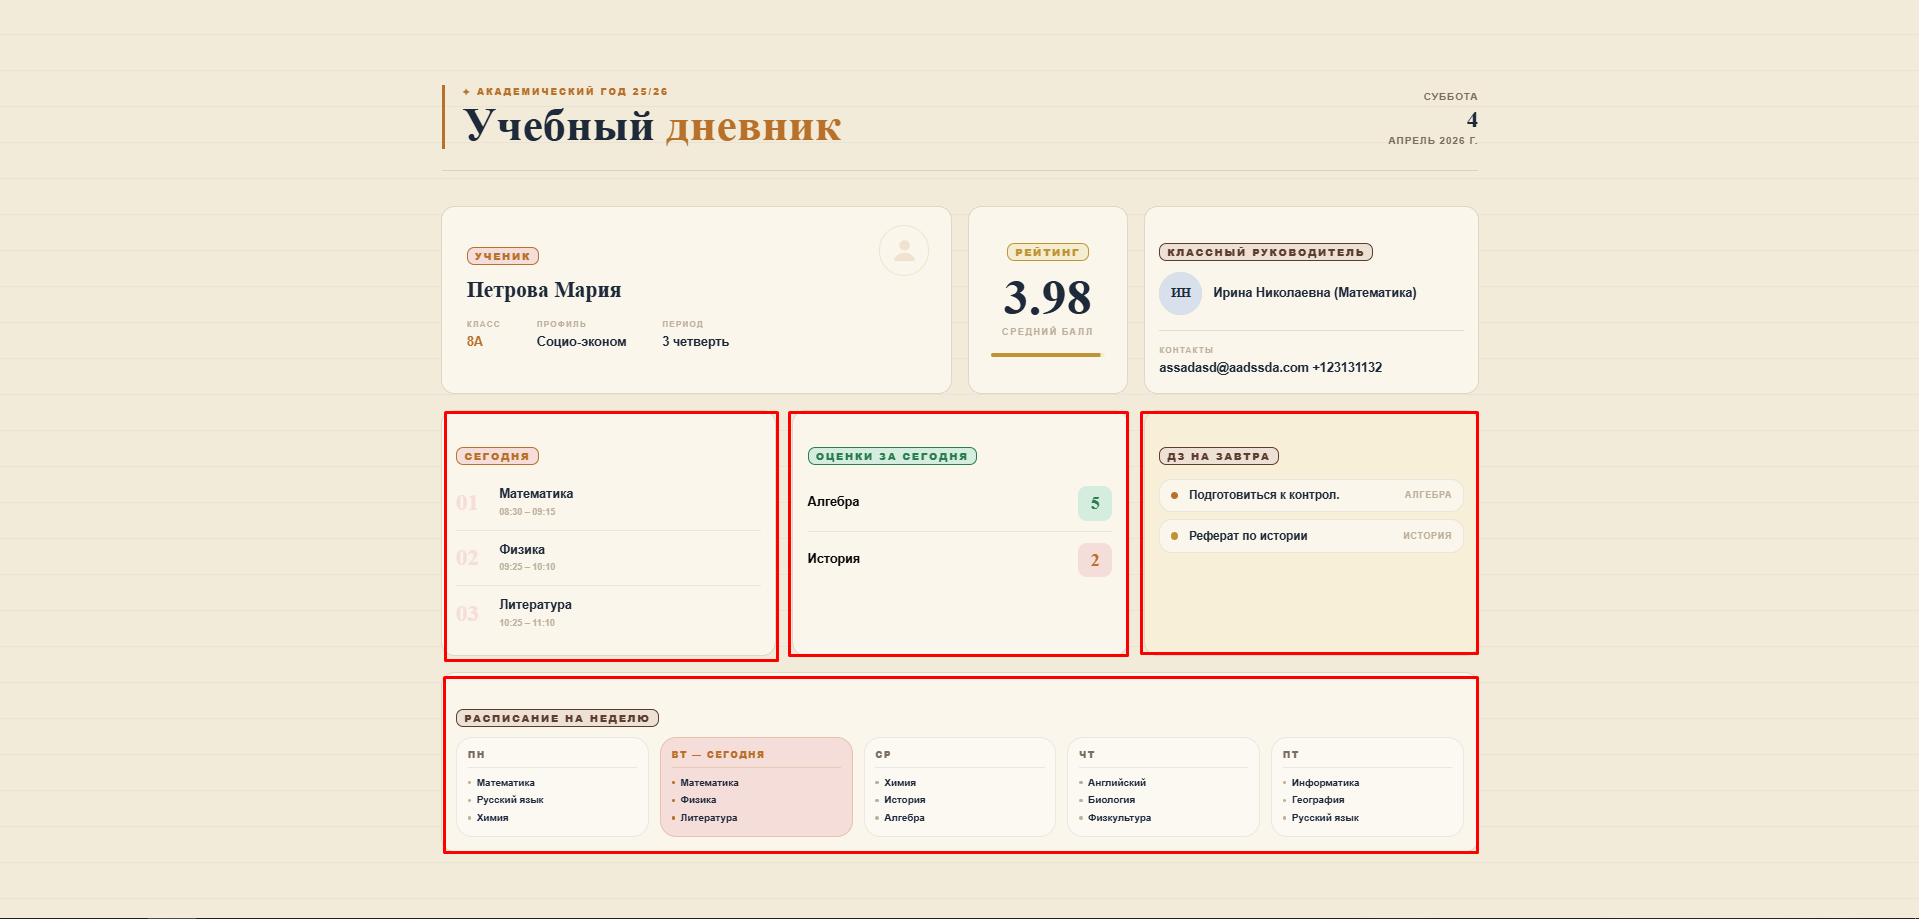
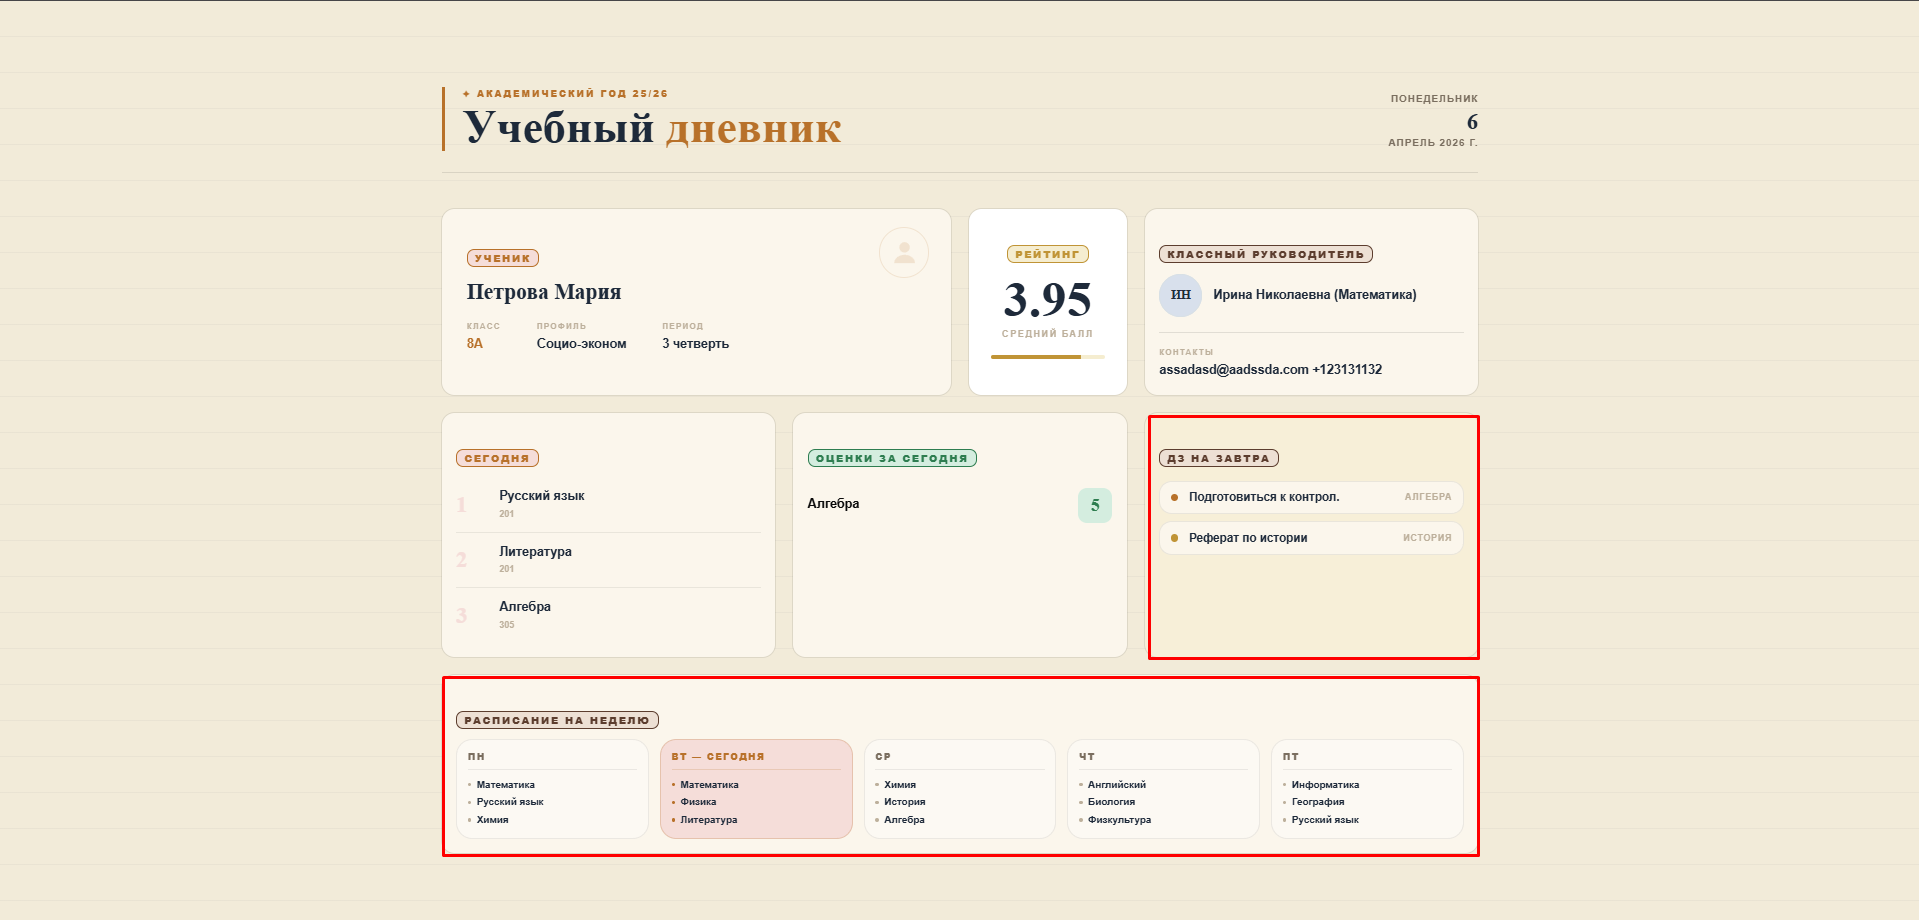
feat: Добавил получение оценок и расписания за определенную дату (#52)
- Добавил unique constraint и validate на academicPeriod
- Добавил в ScheduleLesson поля validFrom validTo

Closes #49

diff --git a/frontend/src/views/home/Home.tsx b/frontend/src/views/home/Home.tsx
@@ -4,25 +4,14 @@ import { Card, CardContent } from "@/components/ui/card";
 import { Progress } from "@/components/ui/progress";
 import { Skeleton } from "@/components/ui/skeleton";
 import { useUser } from "@/hooks/use-user";
-import { useAvgGrade } from "@/hooks/use-grade";
+import { useAvgGrade, useGradesByDate } from "@/hooks/use-grade";
 import type { User } from "@/services/user-service";
+import { useScheduleByDate } from "@/hooks/use-schedule";
 
 const student = {
   period: "3 четверть",
   rating: 4.8,
 };
-
-// todayLessons — массив объектов, рендерим через .map()
-const todayLessons = [
-  { num: "01", name: "Математика", time: "08:30 – 09:15" },
-  { num: "02", name: "Физика", time: "09:25 – 10:10" },
-  { num: "03", name: "Литература", time: "10:25 – 11:10" },
-];
-
-const todayGrades = [
-  { subject: "Алгебра", grade: 5 },
-  { subject: "История", grade: 2 },
-];
 
 const homework = [
   { text: "Подготовиться к контрол.", subject: "Алгебра", color: "bg-[var(--red)]" },
@@ -145,6 +134,8 @@ function Home() {
 
   const { data: user, isLoading, isError } = useUser(2);
   const { data: avgGrade } = useAvgGrade(2, 3);
+  const { data: todayGrades } = useGradesByDate(1, "2026-04-08");
+  const { data: todaySchedule } = useScheduleByDate(1, "MONDAY", "2026-03-30")
 
   return (
     <div className="relative z-10 min-h-screen px-8 pt-24 pb-10">
@@ -260,16 +251,16 @@ function Home() {
             </Chip>
 
             <div className="divide-y divide-black/[0.07]">
-              {todayLessons.map((l) => (
+              {todaySchedule?.map((l) => (
                 // key — обязателен при .map() в React
-                <div key={l.num} className="flex items-center gap-4 py-3">
+                <div key={l.lessonNumber} className="flex items-center gap-4 py-3">
                   {/* Большое полупрозрачное число — декоративный элемент */}
                   <span className="font-serif text-[1.6rem] font-bold text-[var(--red-light)] leading-none min-w-[32px]">
-                    {l.num}
+                    {l.lessonNumber}
                   </span>
                   <div>
-                    <p className="font-bold text-sm text-[var(--ink)]">{l.name}</p>
-                    <p className="text-[10px] font-semibold text-[var(--ink-faint)] mt-0.5">{l.time}</p>
+                    <p className="font-bold text-sm text-[var(--ink)]">{l.subjectName}</p>
+                    <p className="text-[10px] font-semibold text-[var(--ink-faint)] mt-0.5">{l.classRoom}</p>
                   </div>
                 </div>
               ))}
@@ -286,17 +277,17 @@ function Home() {
             </Chip>
 
             <div className="divide-y divide-black/[0.07]">
-              {todayGrades.map((g) => (
-                <div key={g.subject} className="flex items-center justify-between py-3">
-                  <span className="font-semibold text-sm">{g.subject}</span>
-                  <GradeBadge grade={g.grade} />
+              {todayGrades?.map((g) => (
+                <div key={g.subjectName} className="flex items-center justify-between py-3">
+                  <span className="font-semibold text-sm">{g.subjectName}</span>
+                  <GradeBadge grade={g.value} />
                 </div>
               ))}
             </div>
           </CardContent>
         </Card>
 
-        {/* ── ДЗ на завтра ── col-span-4 */}
+        {/* ── ДZ на завтра ── col-span-4 */}
         <Card className="col-span-12 md:col-span-4 bg-[var(--bg-card2)] border-black/10
                          hover:-translate-y-1 hover:shadow-xl transition-all duration-200">
           <CardContent className="pt-6">

diff --git a/frontend/src/hooks/use-grade.ts b/frontend/src/hooks/use-grade.ts
@@ -1,6 +1,6 @@
 import { useQuery } from "@tanstack/react-query"
-import { getAvgGradeByStudentId } from "../services/grade-service"
-import type { AvgGrade } from "@/services/grade-service"
+import { getAvgGradeByStudentId, findAllGradesByDate } from "../services/grade-service"
+import type { AvgGrade, Grade } from "@/services/grade-service"
 
 
 export const useAvgGrade = (studentId: number, academicPeriodId: number) => {
@@ -8,5 +8,13 @@ export const useAvgGrade = (studentId: number, academicPeriodId: number) => {
         queryKey: ['avgGrade', studentId, academicPeriodId],
         queryFn: () => getAvgGradeByStudentId(studentId, academicPeriodId),
         enabled: !!studentId && !!academicPeriodId,
+    })
+}
+
+export const useGradesByDate = (studentId: number, date: string) => {
+    return useQuery<Grade[]>({
+        queryKey: ['gradesByDate', studentId, date],
+        queryFn: () => findAllGradesByDate(studentId, date),
+        enabled: !!studentId && !!date,
     })
 }

diff --git a/frontend/src/services/grade-service.ts b/frontend/src/services/grade-service.ts
@@ -1,8 +1,19 @@
 import api from "../axios/axios";
 
 export type AvgGrade = number;
+export interface Grade {
+    id: number;
+    value: number;
+    gradeType: string;
+    subjectName: string;
+}
 
 export const getAvgGradeByStudentId = async (studentId: number, academicPeriodId: number): Promise<number> => {
     const {data} = await api.get<number>(`/academic-service/api/v1/grades/avg/by-student/${studentId}?academicPeriodId=${academicPeriodId}`);
+    return data;
+}
+
+export const findAllGradesByDate = async (studentId: number, date: string): Promise<Grade[]> => {
+    const {data} = await api.get<Grade[]>(`/academic-service/api/v1/grades/by-date?studentId=${studentId}&date=${date}`);
     return data;
 }

diff --git a/backend/academic-service/src/main/java/com/rusobr/academic/infrastructure/persistence/repository/ScheduleLessonRepository.java b/backend/academic-service/src/main/java/com/rusobr/academic/infrastructure/persistence/repository/ScheduleLessonRepository.java
@@ -1,18 +1,41 @@
 package com.rusobr.academic.infrastructure.persistence.repository;
 
 import com.rusobr.academic.domain.model.ScheduleLesson;
+import com.rusobr.academic.web.dto.scheduleLesson.ScheduleLessonResponse;
 import org.springframework.data.jpa.repository.JpaRepository;
 import org.springframework.data.jpa.repository.Query;
 import org.springframework.data.repository.query.Param;
 import org.springframework.stereotype.Repository;
 
 import java.time.DayOfWeek;
+import java.time.LocalDate;
 import java.util.List;
 
 @Repository
 public interface ScheduleLessonRepository extends JpaRepository<ScheduleLesson, Long> {
     @Query("select sl.dayOfWeek from ScheduleLesson sl where sl.teachingAssignment.id = :teachingAssignmentId")
     List<DayOfWeek> findDaysOfWeeksByTeachingAssignmentId(@Param("teachingAssignmentId") Long teachingAssignmentId);
+
+    @Query("""
+        select new com.rusobr.academic.web.dto.scheduleLesson.ScheduleLessonResponse(
+            sl.id,
+            sl.lessonNumber,
+            su.name,
+            sl.classRoom
+        )
+        from ScheduleLesson sl
+        join sl.teachingAssignment ta
+        join ta.schoolClass sc
+        join sc.students st
+        join ta.subject su
+        where st.studentId = :studentId
+        and sl.dayOfWeek = :dayOfWeek
+        and sl.validFrom <= :date
+        and (sl.validTo is null or sl.validTo >= :date)
+""")
+    List<ScheduleLessonResponse> getScheduleByDate(@Param("studentId") Long studentId,
+                                                   @Param("dayOfWeek") DayOfWeek dayOfWeek,
+                                                   @Param("date") LocalDate date);
 
     List<ScheduleLesson> findByTeachingAssignmentId(Long teachingAssignmentId);
 }

diff --git a/backend/academic-service/src/main/java/com/rusobr/academic/web/controller/ScheduleController.java b/backend/academic-service/src/main/java/com/rusobr/academic/web/controller/ScheduleController.java
@@ -2,10 +2,12 @@ package com.rusobr.academic.web.controller;
 
 import com.rusobr.academic.infrastructure.service.ScheduleService;
 import com.rusobr.academic.web.dto.lessonInstance.LessonWeekItemDto;
+import com.rusobr.academic.web.dto.scheduleLesson.ScheduleLessonResponse;
 import lombok.RequiredArgsConstructor;
 import lombok.extern.slf4j.Slf4j;
 import org.springframework.web.bind.annotation.*;
 
+import java.time.DayOfWeek;
 import java.time.LocalDate;
 import java.util.List;
 
@@ -18,8 +20,15 @@ public class ScheduleController {
     private final ScheduleService scheduleService;
 
     @GetMapping("/classes/{studentId}/schedule")
-    public List<LessonWeekItemDto> getScheduleEndpoint(@RequestParam Long classId, @PathVariable Long studentId, @RequestParam LocalDate startDate, @RequestParam LocalDate endDate) {
+    public List<LessonWeekItemDto> getScheduleEndpoint( @PathVariable Long studentId, @RequestParam Long classId, @RequestParam LocalDate startDate, @RequestParam LocalDate endDate) {
         log.info("Getting schedule endpoints for class {} and student {}", classId, studentId);
         return scheduleService.getSchedule(classId, studentId, startDate, endDate);
+    }
+
+    @GetMapping("/schedule/by-date")
+    public List<ScheduleLessonResponse> getScheduleByDate(@RequestParam Long studentId,
+                                                          @RequestParam DayOfWeek dayOfWeek,
+                                                          @RequestParam LocalDate date) {
+        return scheduleService.getScheduleByDate(studentId, dayOfWeek, date);
     }
 }

diff --git a/backend/academic-service/src/main/java/com/rusobr/academic/infrastructure/service/ScheduleService.java b/backend/academic-service/src/main/java/com/rusobr/academic/infrastructure/service/ScheduleService.java
@@ -1,11 +1,14 @@
 package com.rusobr.academic.infrastructure.service;
 
 import com.rusobr.academic.infrastructure.persistence.repository.LessonInstanceRepository;
+import com.rusobr.academic.infrastructure.persistence.repository.ScheduleLessonRepository;
 import com.rusobr.academic.web.dto.lessonInstance.LessonWeekItemDto;
+import com.rusobr.academic.web.dto.scheduleLesson.ScheduleLessonResponse;
 import lombok.RequiredArgsConstructor;
 import lombok.extern.slf4j.Slf4j;
 import org.springframework.stereotype.Service;
 
+import java.time.DayOfWeek;
 import java.time.LocalDate;
 import java.util.List;
 
@@ -15,10 +18,15 @@ import java.util.List;
 public class ScheduleService {
 
     private final LessonInstanceRepository lessonInstanceRepository;
+    private final ScheduleLessonRepository scheduleLessonRepository;
 
     public List<LessonWeekItemDto> getSchedule(Long classId, Long studentId, LocalDate startDate, LocalDate endDate) {
         log.info("getSchedule for studentId:{}  classId:{} startDate:{} endDate:{}", studentId, classId, startDate, endDate);
         return lessonInstanceRepository.getSchedule(classId, studentId, startDate, endDate);
+    }
+
+    public List<ScheduleLessonResponse> getScheduleByDate(Long studentId, DayOfWeek dayOfWeek, LocalDate date) {
+        return scheduleLessonRepository.getScheduleByDate(studentId, dayOfWeek, date);
     }
 
     //todo расписание для учителя какие уроки у нее

diff --git a/backend/academic-service/src/main/java/com/rusobr/academic/infrastructure/service/GradeService.java b/backend/academic-service/src/main/java/com/rusobr/academic/infrastructure/service/GradeService.java
@@ -12,6 +12,7 @@ import com.rusobr.academic.infrastructure.persistence.repository.GradeRepository
 import com.rusobr.academic.infrastructure.persistence.repository.LessonInstanceRepository;
 import com.rusobr.academic.infrastructure.persistence.repository.ScheduleLessonRepository;
 import com.rusobr.academic.web.dto.grade.GradeResponse;
+import com.rusobr.academic.web.dto.grade.GradeWithSubjectNameResponse;
 import com.rusobr.academic.web.dto.grade.createGrade.CreateGradeRequest;
 import com.rusobr.academic.web.dto.grade.createGrade.CreateGradeResponse;
 import lombok.RequiredArgsConstructor;
@@ -20,6 +21,7 @@ import org.springframework.stereotype.Service;
 import org.springframework.transaction.annotation.Transactional;
 
 import java.time.LocalDate;
+import java.util.List;
 
 @Slf4j
 @Service
@@ -43,6 +45,10 @@ public class GradeService {
                 .orElseThrow(() -> new NotFoundException("Academic period not found academicPeriodId: " + academicPeriodId));
         log.info(academicPeriod.toString());
         return gradeRepository.getAverageGrade(studentId, academicPeriod.getStartDate(), academicPeriod.getEndDate());
+    }
+
+    public List<GradeWithSubjectNameResponse> findAllGradesByDate(Long studentId, LocalDate date) {
+        return gradeRepository.findAllGradesByDate(studentId, date);
     }
 
     @Transactional

diff --git a/backend/academic-service/src/main/java/com/rusobr/academic/web/controller/GradeController.java b/backend/academic-service/src/main/java/com/rusobr/academic/web/controller/GradeController.java
@@ -2,6 +2,7 @@ package com.rusobr.academic.web.controller;
 
 import com.rusobr.academic.infrastructure.service.GradeService;
 import com.rusobr.academic.web.dto.grade.GradeResponse;
+import com.rusobr.academic.web.dto.grade.GradeWithSubjectNameResponse;
 import com.rusobr.academic.web.dto.grade.createGrade.CreateGradeRequest;
 import com.rusobr.academic.web.dto.grade.createGrade.CreateGradeResponse;
 import jakarta.validation.Valid;
@@ -9,6 +10,9 @@ import jakarta.validation.constraints.NotNull;
 import lombok.RequiredArgsConstructor;
 import lombok.extern.slf4j.Slf4j;
 import org.springframework.web.bind.annotation.*;
+
+import java.time.LocalDate;
+import java.util.List;
 
 @Slf4j
 @RestController
@@ -27,6 +31,11 @@ public class GradeController {
     public Double getAverageGrade(@PathVariable Long id, @RequestParam @NotNull Long academicPeriodId) {
         log.info("getAverageGrade {} {}", id, academicPeriodId);
         return gradeService.getAverageGrade(id, academicPeriodId);
+    }
+
+    @GetMapping("/by-date")
+    public List<GradeWithSubjectNameResponse> findAllGradesByDate(@RequestParam @NotNull Long studentId, @RequestParam @NotNull LocalDate date) {
+        return gradeService.findAllGradesByDate(studentId, date);
     }
 
     @PostMapping

diff --git a/backend/academic-service/src/main/java/com/rusobr/academic/infrastructure/persistence/repository/GradeRepository.java b/backend/academic-service/src/main/java/com/rusobr/academic/infrastructure/persistence/repository/GradeRepository.java
@@ -2,6 +2,7 @@ package com.rusobr.academic.infrastructure.persistence.repository;
 
 import com.rusobr.academic.domain.model.Grade;
 import com.rusobr.academic.web.dto.grade.GradeJournalItemDto;
+import com.rusobr.academic.web.dto.grade.GradeWithSubjectNameResponse;
 import org.springframework.data.jpa.repository.EntityGraph;
 import org.springframework.data.jpa.repository.JpaRepository;
 import org.springframework.data.jpa.repository.Query;
@@ -50,4 +51,21 @@ public interface GradeRepository extends JpaRepository<Grade, Long> {
             """)
     Double getAverageGrade(@Param("studentId") Long studentId,
                             @Param("startDate") LocalDate startDate, @Param("endDate") LocalDate endDate);
+
+    @Query("""
+       select new com.rusobr.academic.web.dto.grade.GradeWithSubjectNameResponse(
+            g.id,
+            g.value,
+            g.type,
+            s.name
+       )
+       from Grade g
+       join g.lessonInstance li
+       join li.scheduleLesson sl
+       join sl.teachingAssignment ta
+       join ta.subject s
+       where li.date = :date
+       and g.studentId = :studentId
+""")
+    List<GradeWithSubjectNameResponse> findAllGradesByDate(@Param("studentId") Long studentId, @Param("date")  LocalDate date);
 }

diff --git a/backend/academic-service/src/main/java/com/rusobr/academic/domain/model/AcademicPeriod.java b/backend/academic-service/src/main/java/com/rusobr/academic/domain/model/AcademicPeriod.java
@@ -12,7 +12,11 @@ import java.time.LocalDate;
 @Setter
 @ToString
 @Builder
-@Table(name = "academic_periods")
+@Table(name = "academic_periods",
+    uniqueConstraints = @UniqueConstraint(
+            columnNames = {"school_year", "name"}
+    )
+)
 public class AcademicPeriod {
     @Id
     @GeneratedValue(strategy = GenerationType.IDENTITY)
@@ -31,5 +35,13 @@ public class AcademicPeriod {
 
     public boolean contains(LocalDate date) {
         return !date.isBefore(startDate) && !date.isAfter(endDate);
+    }
+
+    @PrePersist
+    @PreUpdate
+    private void validate() {
+        if (startDate != null && endDate != null && startDate.isAfter(endDate)) {
+            throw new IllegalArgumentException("Start date cannot be after end date");
+        }
     }
 }

diff --git a/backend/academic-service/src/main/java/com/rusobr/academic/domain/model/ScheduleLesson.java b/backend/academic-service/src/main/java/com/rusobr/academic/domain/model/ScheduleLesson.java
@@ -8,6 +8,7 @@ import org.springframework.data.jpa.domain.support.AuditingEntityListener;
 
 import java.time.DayOfWeek;
 import java.time.Instant;
+import java.time.LocalDate;
 
 @Entity
 @NoArgsConstructor
@@ -38,6 +39,10 @@ public class ScheduleLesson {
     private Integer lessonNumber;
 
     private String classRoom;
+
+    private LocalDate validFrom;
+
+    private LocalDate validTo;
 
     @CreatedDate
     @Column(updatable = false, name = "created_at")

diff --git a/backend/academic-service/src/main/java/com/rusobr/academic/domain/model/Attendance.java b/backend/academic-service/src/main/java/com/rusobr/academic/domain/model/Attendance.java
@@ -18,7 +18,10 @@ import java.time.LocalDateTime;
 @ToString
 @Builder
 @EntityListeners(AuditingEntityListener.class)
-@Table(name = "attendances")
+@Table(name = "attendances",
+        uniqueConstraints = @UniqueConstraint(
+                columnNames = {"studentId", "lesson_instance_id"}
+        ))
 public class Attendance {
     @Id
     @GeneratedValue(strategy = GenerationType.IDENTITY)
